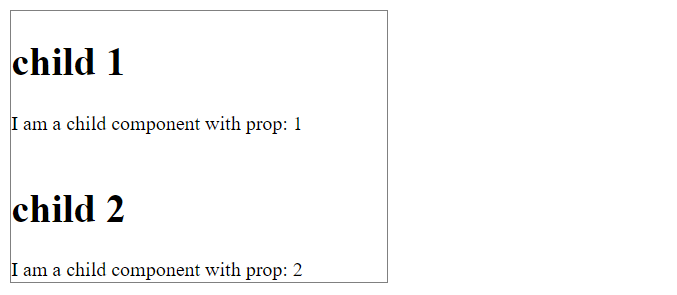
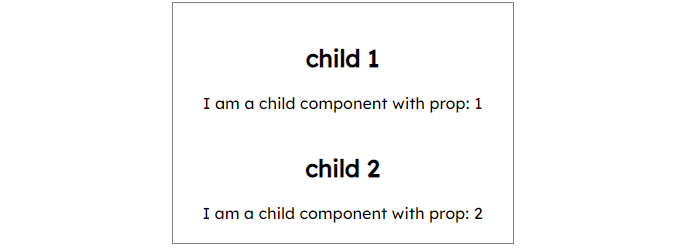
updated tutorial images

diff --git a/tutorial/dist/tutorial.e31bb0bc.js b/tutorial/dist/tutorial.e31bb0bc.js
@@ -558,7 +558,7 @@ exports.default = void 0;
 var _Framework = require("../../Framework/Framework");
 
 var _default = function _default(number) {
-  return (0, _Framework.div)().children([(0, _Framework.h1)().children([(0, _Framework.text)('child ' + number)]), (0, _Framework.text)("I am a child component with prop: ".concat(number))]);
+  return (0, _Framework.div)().children([(0, _Framework.h2)().children([(0, _Framework.text)('child ' + number)]), (0, _Framework.text)("I am a child component with prop: ".concat(number))]);
 };
 
 exports.default = _default;
@@ -595,7 +595,7 @@ var _default = function _default(number) {
   }).event.click(function () {
     this.localState.count++;
   }).children(function () {
-    return [(0, _Framework.h1)().children([(0, _Framework.text)('child ' + number)]), (0, _Framework.text)("I have my own local state! click count: ".concat(this.localState.count, "."))];
+    return [(0, _Framework.h2)().children([(0, _Framework.text)('child ' + number)]), (0, _Framework.text)("I have my own local state! click count: ".concat(this.localState.count, "."))];
   });
 };
 
@@ -657,7 +657,7 @@ var _default = function _default(number) {
 
     _state.default.state.incrementCount(number);
   }).children(function () {
-    return [(0, _Framework.h1)().children([(0, _Framework.text)('child ' + number)]), (0, _Framework.text)("I have my own local state! click count: ".concat(this.localState.count, "."))];
+    return [(0, _Framework.h2)().children([(0, _Framework.text)('child ' + number)]), (0, _Framework.text)("I increase the total count by ".concat(number, ". click count: ").concat(this.localState.count, "."))];
   });
 };
 
@@ -758,7 +758,7 @@ var parent = module.bundle.parent;
 if ((!parent || !parent.isParcelRequire) && typeof WebSocket !== 'undefined') {
   var hostname = "" || location.hostname;
   var protocol = location.protocol === 'https:' ? 'wss' : 'ws';
-  var ws = new WebSocket(protocol + '://' + hostname + ':' + "52699" + '/');
+  var ws = new WebSocket(protocol + '://' + hostname + ':' + "54376" + '/');
 
   ws.onmessage = function (event) {
     checkedAssets = {};

diff --git a/tutorial/components/Example7child.js b/tutorial/components/Example7child.js
@@ -1,4 +1,4 @@
-import { text, div, h1 } from '../../Framework/Framework'
+import { text, div, h2 } from '../../Framework/Framework'
 import State from './state'
 
 export default (number) => {
@@ -11,7 +11,9 @@ export default (number) => {
             State.state.incrementCount(number)
         })
         .children(function() { return [
-            h1().children([text('child ' + number)]),
-            text(`I have my own local state! click count: ${this.localState.count}.`)
+            h2().children([
+                text('child ' + number)
+            ]),
+            text(`I increase the total count by ${number}. click count: ${this.localState.count}.`)
         ]})
 }

diff --git a/dist/index.html b/dist/index.html
@@ -3,12 +3,12 @@
 <head>
     <meta charset="UTF-8">
     <meta name="viewport" content="width=device-width, initial-scale=1.0">
-    <link rel="stylesheet" href="/da232d78aa810382f2dcdceae308ff8e.css">
+    <link rel="stylesheet" href="/style.e308ff8e.css">
     <title>Frame</title>
-</head>
+<script src="/style.e308ff8e.js"></script></head>
 <body>
     <style>@import url('https://fonts.googleapis.com/css2?family=Lexend+Deca&display=swap');</style>
     <div id="app"></div>
-    <script src="/168726dbe96b3ce427e7fedce31bb0bc.js"></script>
+    <script src="/framework.e31bb0bc.js"></script>
 </body>
 </html>

diff --git a/tutorial/components/Example6child.js b/tutorial/components/Example6child.js
@@ -1,4 +1,4 @@
-import { text, div, h1 } from '../../Framework/Framework'
+import { text, div, h2 } from '../../Framework/Framework'
 
 export default (number) => {
     return div()
@@ -9,7 +9,7 @@ export default (number) => {
             this.localState.count++
         })
         .children(function() { return [
-            h1().children([text('child ' + number)]),
+            h2().children([text('child ' + number)]),
             text(`I have my own local state! click count: ${this.localState.count}.`)
         ]})
 }

diff --git a/tutorial/dist/index.html b/tutorial/dist/index.html
@@ -4,10 +4,9 @@
     <meta charset="UTF-8">
     <meta name="viewport" content="width=device-width, initial-scale=1.0">
     <link rel="stylesheet" href="/style.e308ff8e.css">
-    <title>Frame</title>
+    <title>Framework</title>
 <script src="/style.e308ff8e.js"></script></head>
 <body>
-    <style>@import url('https://fonts.googleapis.com/css2?family=Lexend+Deca&display=swap');</style>
     <div id="app"></div>
     <script src="/tutorial.e31bb0bc.js"></script>
 </body>

diff --git a/dist/framework.e31bb0bc.js b/dist/framework.e31bb0bc.js
@@ -713,7 +713,7 @@ var parent = module.bundle.parent;
 if ((!parent || !parent.isParcelRequire) && typeof WebSocket !== 'undefined') {
   var hostname = "" || location.hostname;
   var protocol = location.protocol === 'https:' ? 'wss' : 'ws';
-  var ws = new WebSocket(protocol + '://' + hostname + ':' + "49743" + '/');
+  var ws = new WebSocket(protocol + '://' + hostname + ':' + "54364" + '/');
 
   ws.onmessage = function (event) {
     checkedAssets = {};

diff --git a/dist/index.js b/dist/index.js
@@ -212,7 +212,7 @@ var parent = module.bundle.parent;
 if ((!parent || !parent.isParcelRequire) && typeof WebSocket !== 'undefined') {
   var hostname = "" || location.hostname;
   var protocol = location.protocol === 'https:' ? 'wss' : 'ws';
-  var ws = new WebSocket(protocol + '://' + hostname + ':' + "49743" + '/');
+  var ws = new WebSocket(protocol + '://' + hostname + ':' + "54364" + '/');
 
   ws.onmessage = function (event) {
     checkedAssets = {};

diff --git a/dist/style.e308ff8e.js b/dist/style.e308ff8e.js
@@ -237,7 +237,7 @@ var parent = module.bundle.parent;
 if ((!parent || !parent.isParcelRequire) && typeof WebSocket !== 'undefined') {
   var hostname = "" || location.hostname;
   var protocol = location.protocol === 'https:' ? 'wss' : 'ws';
-  var ws = new WebSocket(protocol + '://' + hostname + ':' + "49743" + '/');
+  var ws = new WebSocket(protocol + '://' + hostname + ':' + "54364" + '/');
 
   ws.onmessage = function (event) {
     checkedAssets = {};

diff --git a/tutorial/dist/style.e308ff8e.js b/tutorial/dist/style.e308ff8e.js
@@ -217,7 +217,7 @@ var parent = module.bundle.parent;
 if ((!parent || !parent.isParcelRequire) && typeof WebSocket !== 'undefined') {
   var hostname = "" || location.hostname;
   var protocol = location.protocol === 'https:' ? 'wss' : 'ws';
-  var ws = new WebSocket(protocol + '://' + hostname + ':' + "52699" + '/');
+  var ws = new WebSocket(protocol + '://' + hostname + ':' + "54376" + '/');
 
   ws.onmessage = function (event) {
     checkedAssets = {};

diff --git a/tutorial/index.html b/tutorial/index.html
@@ -4,12 +4,9 @@
     <meta charset="UTF-8">
     <meta name="viewport" content="width=device-width, initial-scale=1.0">
     <link rel="stylesheet" href="style.css">
-    <title>Frame</title>
+    <title>Framework</title>
 </head>
 <body>
-    <style>
-        @import url('https://fonts.googleapis.com/css2?family=Lexend+Deca&display=swap');
-    </style>
     <div id="app"></div>
     <script src="index.js"></script>
 </body>

diff --git a/tutorial/components/Example5child.js b/tutorial/components/Example5child.js
@@ -1,9 +1,9 @@
-import { text, div, h1, h6 } from '../../Framework/Framework'
+import { text, div, h2 } from '../../Framework/Framework'
 
 export default (number) => {
     return div()
         .children([
-            h1().children([
+            h2().children([
                 text('child ' + number)
             ]),
             text(`I am a child component with prop: ${number}`)

diff --git a/tutorial/dist/style.e308ff8e.css b/tutorial/dist/style.e308ff8e.css
@@ -1,7 +1,13 @@
+@import url('https://fonts.googleapis.com/css2?family=Lexend+Deca&display=swap');
+
 .example {
+    font-family: 'Lexend Deca', sans-serif;
+    text-align: center;
     width: 300px;
     min-height: 200px;
     border: 1px grey solid;
+    padding: 20px;
+    margin: auto;
 }
 
 
